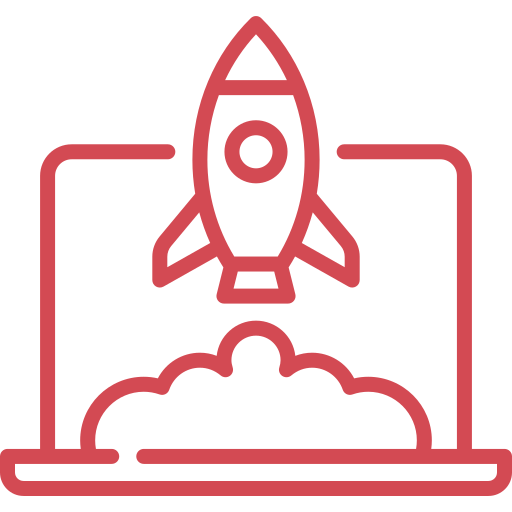
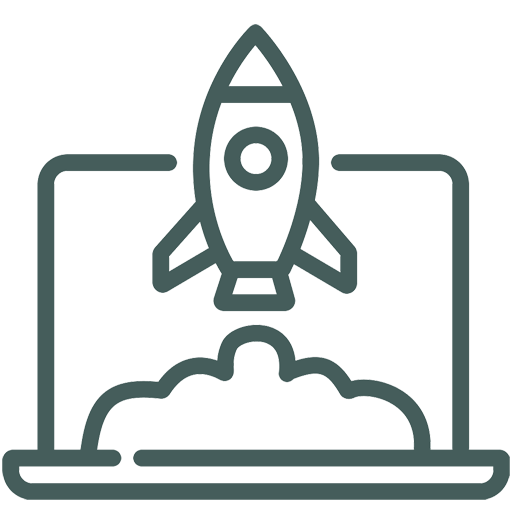
Finished layout and styles

Changed region(s): [[0.0, 0.0312, 1.0, 1.0]]

diff --git a/styles/index.css b/styles/index.css
@@ -11,10 +11,11 @@
 html, body {
 	font-family: 'Poppins', sans-serif;
 	font-size: 16px; /* 1rem = 16px */
-	color: #766767;
-	/*color: 	#141414;*/
+	color: #3A3A3C;
+	/*color: #27403D;*/
 	text-align: center;
-	background-color: #FAF2E5; 
+	/*background-color: #FAF2E5; */
+	background-color: #F9F1F2;
 }
 
 .main{
@@ -25,7 +26,7 @@ html, body {
 
 /*Special font sizes and styles*/
 h1, h2{
-	color: #D34A53;
+	color: #CF833E;
 	margin: 1rem;
 }
 
@@ -43,7 +44,7 @@ p{
 
 a {
 	text-decoration: none;
-	color: #766767;
+	color: #CF833E;
 }
 
 .intro-text, .workethic-intro, .workethic-text, .tile, .margin-section {
@@ -51,10 +52,6 @@ a {
   	text-justify: inter-word;
   	text-justify: distribute;
   	text-align-last: left;
-}
-
-.blue-h{
-	color: #037277;
 }
 
 /*style first 'block' of the page*/
@@ -84,7 +81,7 @@ a {
 .workethic-box{
 	width: 100%;
 	margin: 0;
-	background-color: #AECFD3;
+	background-color: #E1C8CA;
 }
 
 .workethic-intro{
@@ -101,6 +98,7 @@ a {
 
 figure{
 	text-align: center !important;
+	margin-top: 1rem;
 }
 
 .workethic-image{
@@ -116,7 +114,6 @@ figure{
 .workethic-text{
 	width: 100%;
 	max-width: 350px;
-	margin: 1rem 0;
 	padding: 1rem;
 }
 
@@ -147,14 +144,13 @@ figure{
 hr.rounded {
 	border: 0;
   	height: 2px;
-  	background-image: linear-gradient(to right, transparent, #CCC, transparent);
+  	background-image: linear-gradient(to right, transparent, #E1C8CA, transparent);
   	margin: 1rem;
 }
 
 .footer-flex{
 	display: flex;
 	flex-direction: column;
-	padding: 1rem;
 }
 
 .link-footer{

diff --git a/styles/style-workfilter.css b/styles/style-workfilter.css
@@ -20,7 +20,7 @@ label::before {
   bottom: 0;
   width: 0;
   height: 2px;
-  background-color: rgb(0, 255, 0);
+  background-color: #CF833E;
   transition: width 0.25s ease-out;
 }
 label:hover::before {
@@ -40,7 +40,7 @@ label {
 }
 
 input[type="radio"][id="ontwerp"]:checked + label {
-  background:#BCDCE0;
+  /*background:#BCDCE0;*/
 }
 
 input[type="radio"][id="ontwerp"]:checked ~ .website, input[type="radio"][id="ontwerp"]:checked ~ .onderzoek {
@@ -53,7 +53,7 @@ input[type="radio"][id="ontwerp"]:checked ~ .website, input[type="radio"][id="on
 }
 
 input[type="radio"][id="website"]:checked + label {
-  background:#D4E5E5;
+  /*background:#D4E5E5;*/
 }
 input[type="radio"][id="website"]:checked ~ .ontwerp, input[type="radio"][id="website"]:checked ~ .onderzoek {
   width:0;
@@ -65,7 +65,7 @@ input[type="radio"][id="website"]:checked ~ .ontwerp, input[type="radio"][id="we
 }
 
 input[type="radio"][id="onderzoek"]:checked + label {
-  background:#AECFD3;
+  /*background:#AECFD3;*/
 }
 input[type="radio"][id="onderzoek"]:checked ~ .ontwerp, input[type="radio"][id="onderzoek"]:checked ~ .website {
   width:0;
@@ -93,7 +93,7 @@ div.tile{
 
 div.tile:hover,
 div.tile:focus {
-  background-color: #FAF2E5;
+  background-color: #F9F1F2;
   box-shadow: 0 0.1px 0.6px rgba(0, 0, 0, 0.025),
               0 0.3px 1.3px rgba(0, 0, 0, 0.036),
               0 0.5px 2.5px rgba(0, 0, 0, 0.045),

diff --git a/styles/buttons-workpage.css b/styles/buttons-workpage.css
@@ -1,53 +1,21 @@
-.previous, .next {
-  text-decoration: none;
-  display: inline-block;
-  padding: 0.5rem 1rem;
-}
-
-.previous:hover {
-  background-color: #ddd;
-  color: black;
-}
-
-/*.next:hover,
-.next:focus {
-  box-shadow: inset 6.5em 0 0 0 var(--hover);
-}*/
-/*.next:hover{
-  background-color: #ddd;
-  color: black;
-}*/
-
 .next {
-  color: #FFF;
-  border: 2px solid rgb(216, 2, 134);
+  color: #CF833E;
+  margin: 1rem;
+  border: 1px solid #C68187;
   border-radius: 0px;
-  padding: 18px 36px;
+  padding: 1rem 1.25rem;
   display: inline-block;
-  font-family: "Lucida Console", Monaco, monospace;
-  font-size: 14px;
   letter-spacing: 1px;
   cursor: pointer;
-  box-shadow: inset 0 0 0 0 #D80286;
+  box-shadow: inset 0 0 0 0 #C68187;
   -webkit-transition: ease-out 0.4s;
   -moz-transition: ease-out 0.4s;
   transition: ease-out 0.4s;
 }
 
 .next:hover {
-  box-shadow: inset 600px 0 0 0 #D80286;
-}
-
-.previous {
-  background-color: #f1f1f1;
-  color: black;
-  margin: 1rem;
-}
-
-.next {
-  background-color: #04AA6D;
-  color: white;
-  margin: 1rem;
+  box-shadow: inset 600px 0 0 0 #C68187;
+  color: #FFF;
 }
 
 .round {

diff --git a/styles/style-navigation.css b/styles/style-navigation.css
@@ -12,7 +12,7 @@
     position: fixed;
     top: auto;
     width: 100%;
-    background-color: #FAF2E5; 
+    background-color: #F9F1F2; 
     box-shadow: 0px 2px 2px -2px rgba(0,0,0,.2);
     display: flex;
 	justify-content: safe center;
@@ -32,10 +32,15 @@ ul {
 }
 
 .nav-container a {
-	color: #037277;
+	/*color: #27403D;*/
+	color: #3A3A3C;
 	text-decoration: none;
 	padding: 0.25rem 0;
 	font-size: 0.875rem;
+}
+
+.nav-container a:hover{
+	color: #CF833E;
 }
 
 /*Opmaak logo*/

diff --git a/styles/aboutme.css b/styles/aboutme.css
@@ -12,7 +12,7 @@
 }
 
 .collapsible {
-  background-color: #777;
+  background-color: #CD8F95;
   color: white;
   cursor: pointer;
   padding: 18px;
@@ -29,14 +29,14 @@ button.collapsible{
 }
 
 .active, .collapsible:hover {
-  background-color: #555;
+  background-color: #C68187;
 }
 
 .content {
   padding: 0 18px;
   display: none;
   overflow: hidden;
-  background-color: #f1f1f1;
+  background-color: #F9F1F2;
 }
 
 .collapsible:after{

diff --git a/styles/button.css b/styles/button.css
@@ -2,7 +2,7 @@
 button {
   border: none;
   font-family: 'Montserrat', sans-serif;
-  color: #766767;
+  color: #CF833E;
   font-size: 1rem;
   background: none;
   text-align: justify;
@@ -47,7 +47,7 @@ button:hover:after {
   bottom: 0;
   width: 0;
   height: 2px;
-  background-color: rgb(0, 255, 0);
+  background-color: #CF833E;
   transition: width 0.25s ease-out;
 }
 .underline:hover::before {

diff --git a/styles/style-responsiveness.css b/styles/style-responsiveness.css
@@ -29,7 +29,7 @@
 	}
 
 	.nav-container a {
-		padding: 1.25rem 0;
+		padding-top: 1.25rem;
 	}
 }
 
